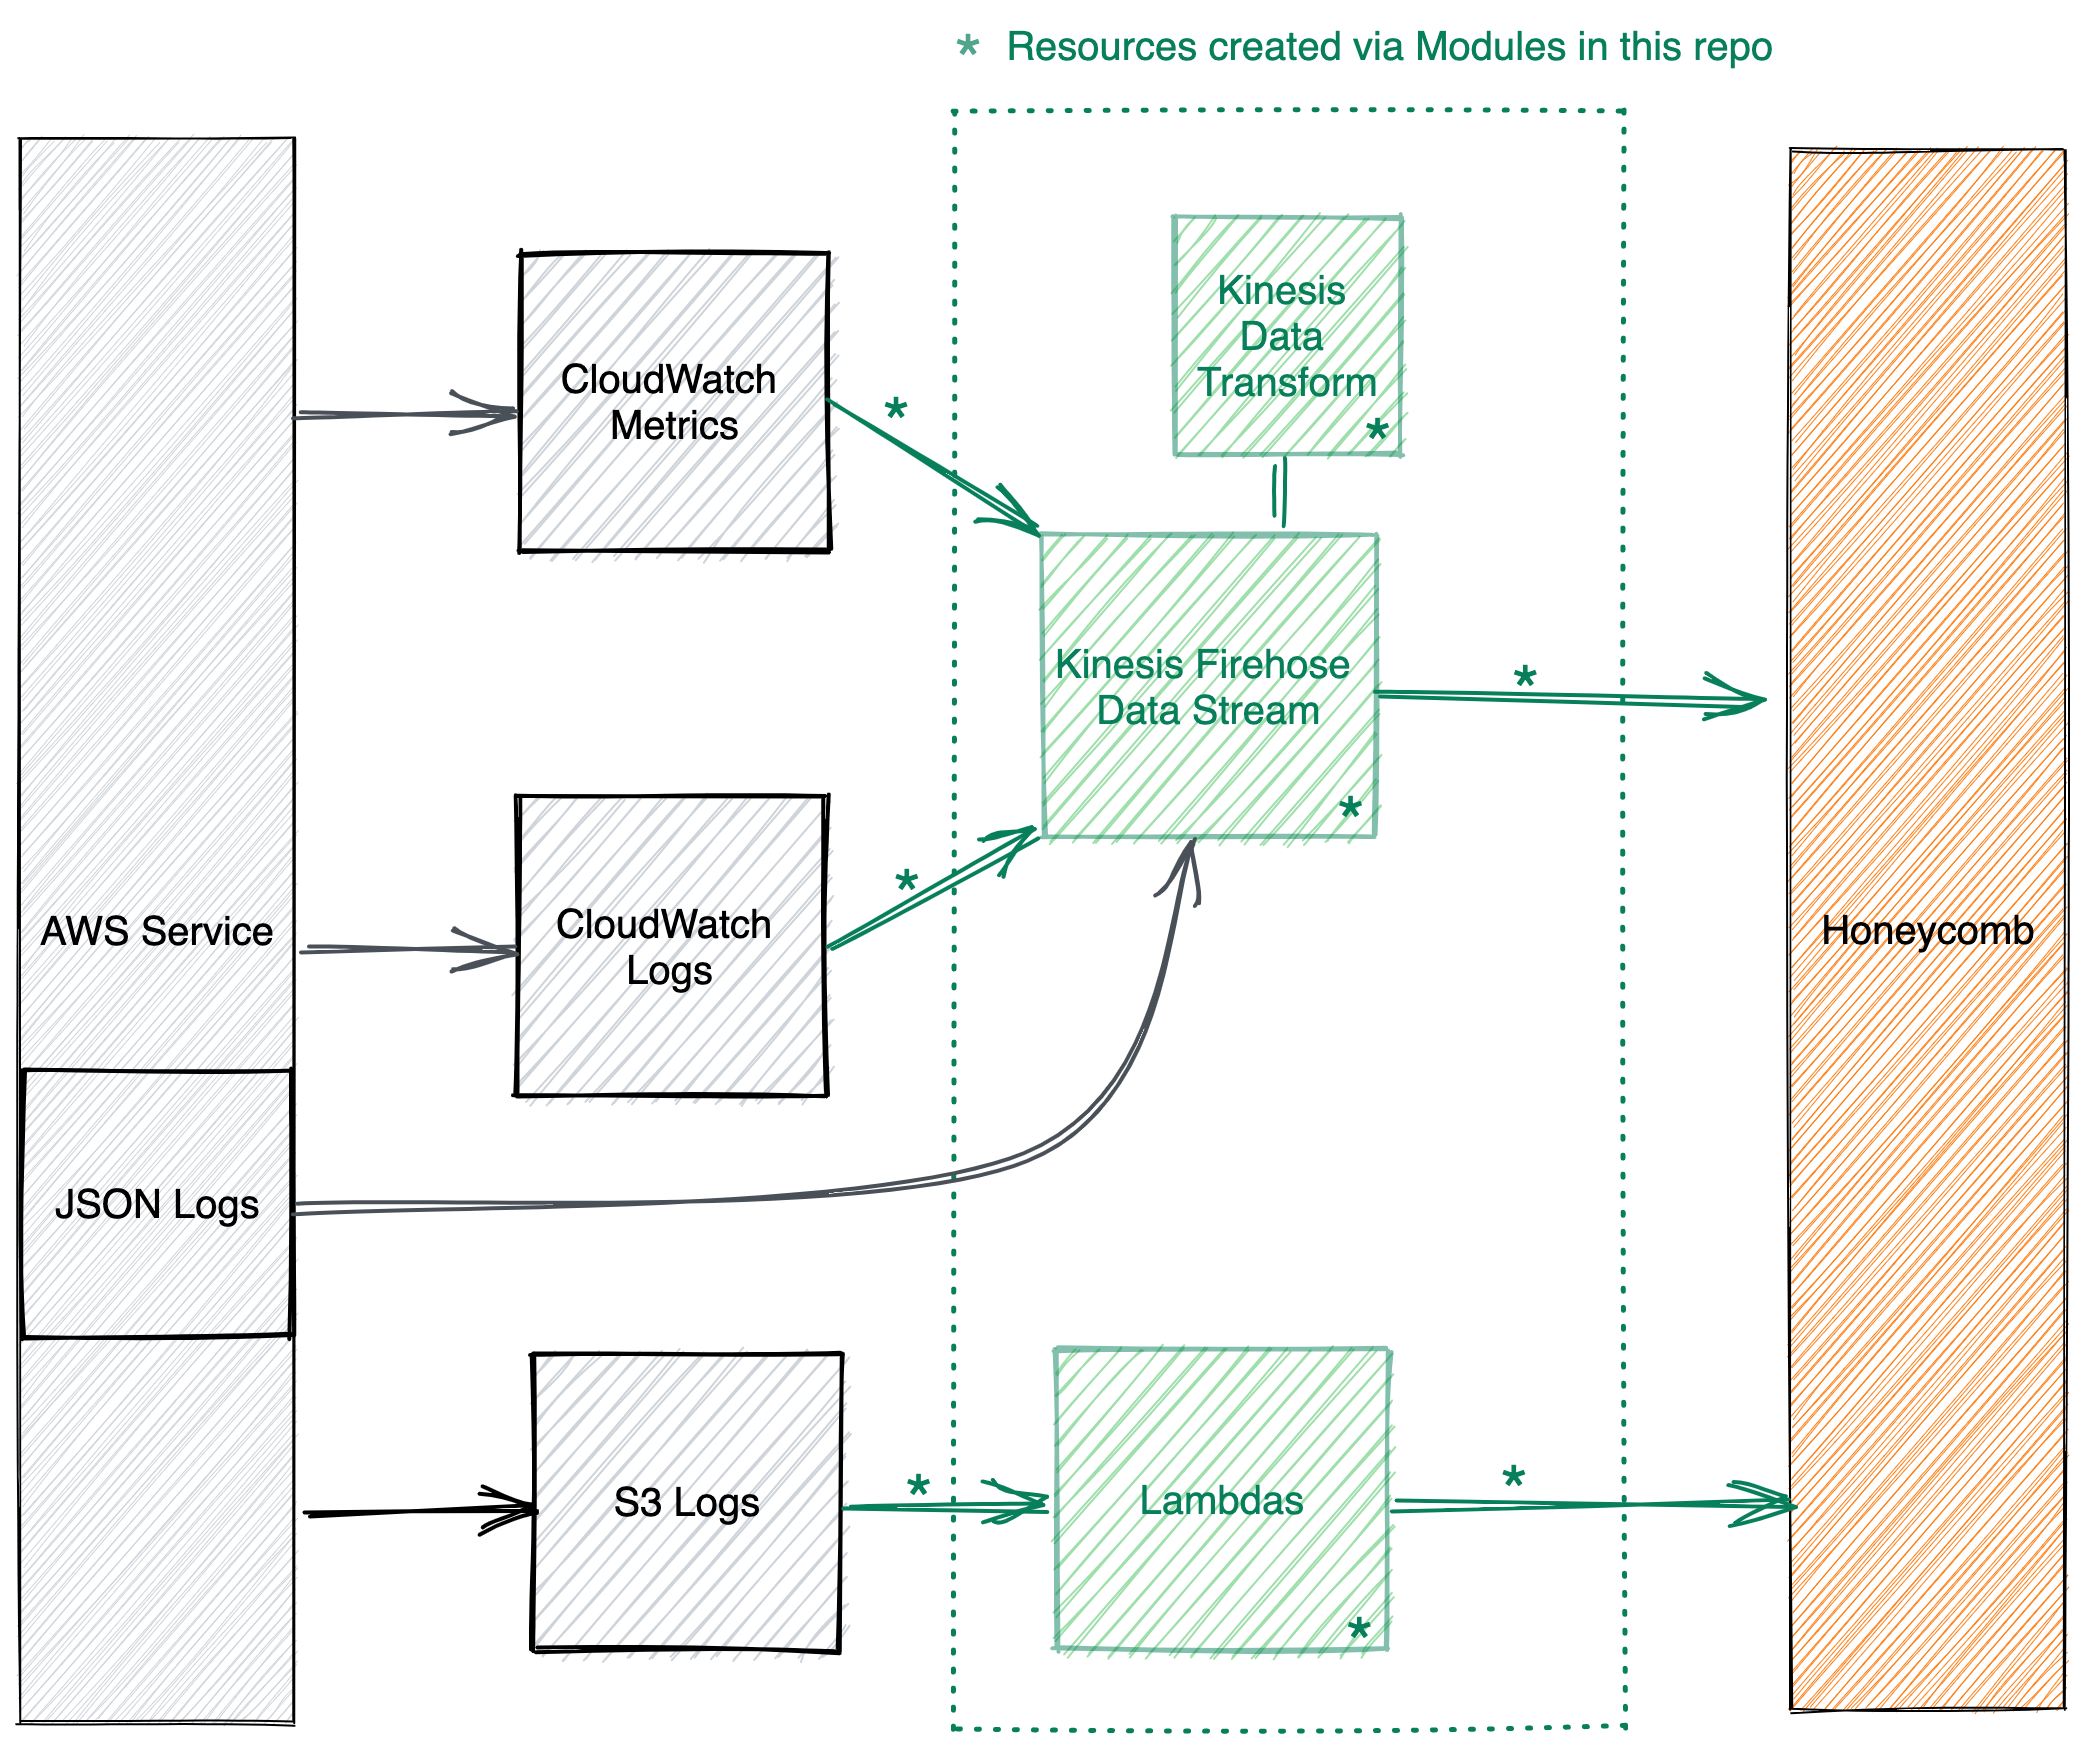
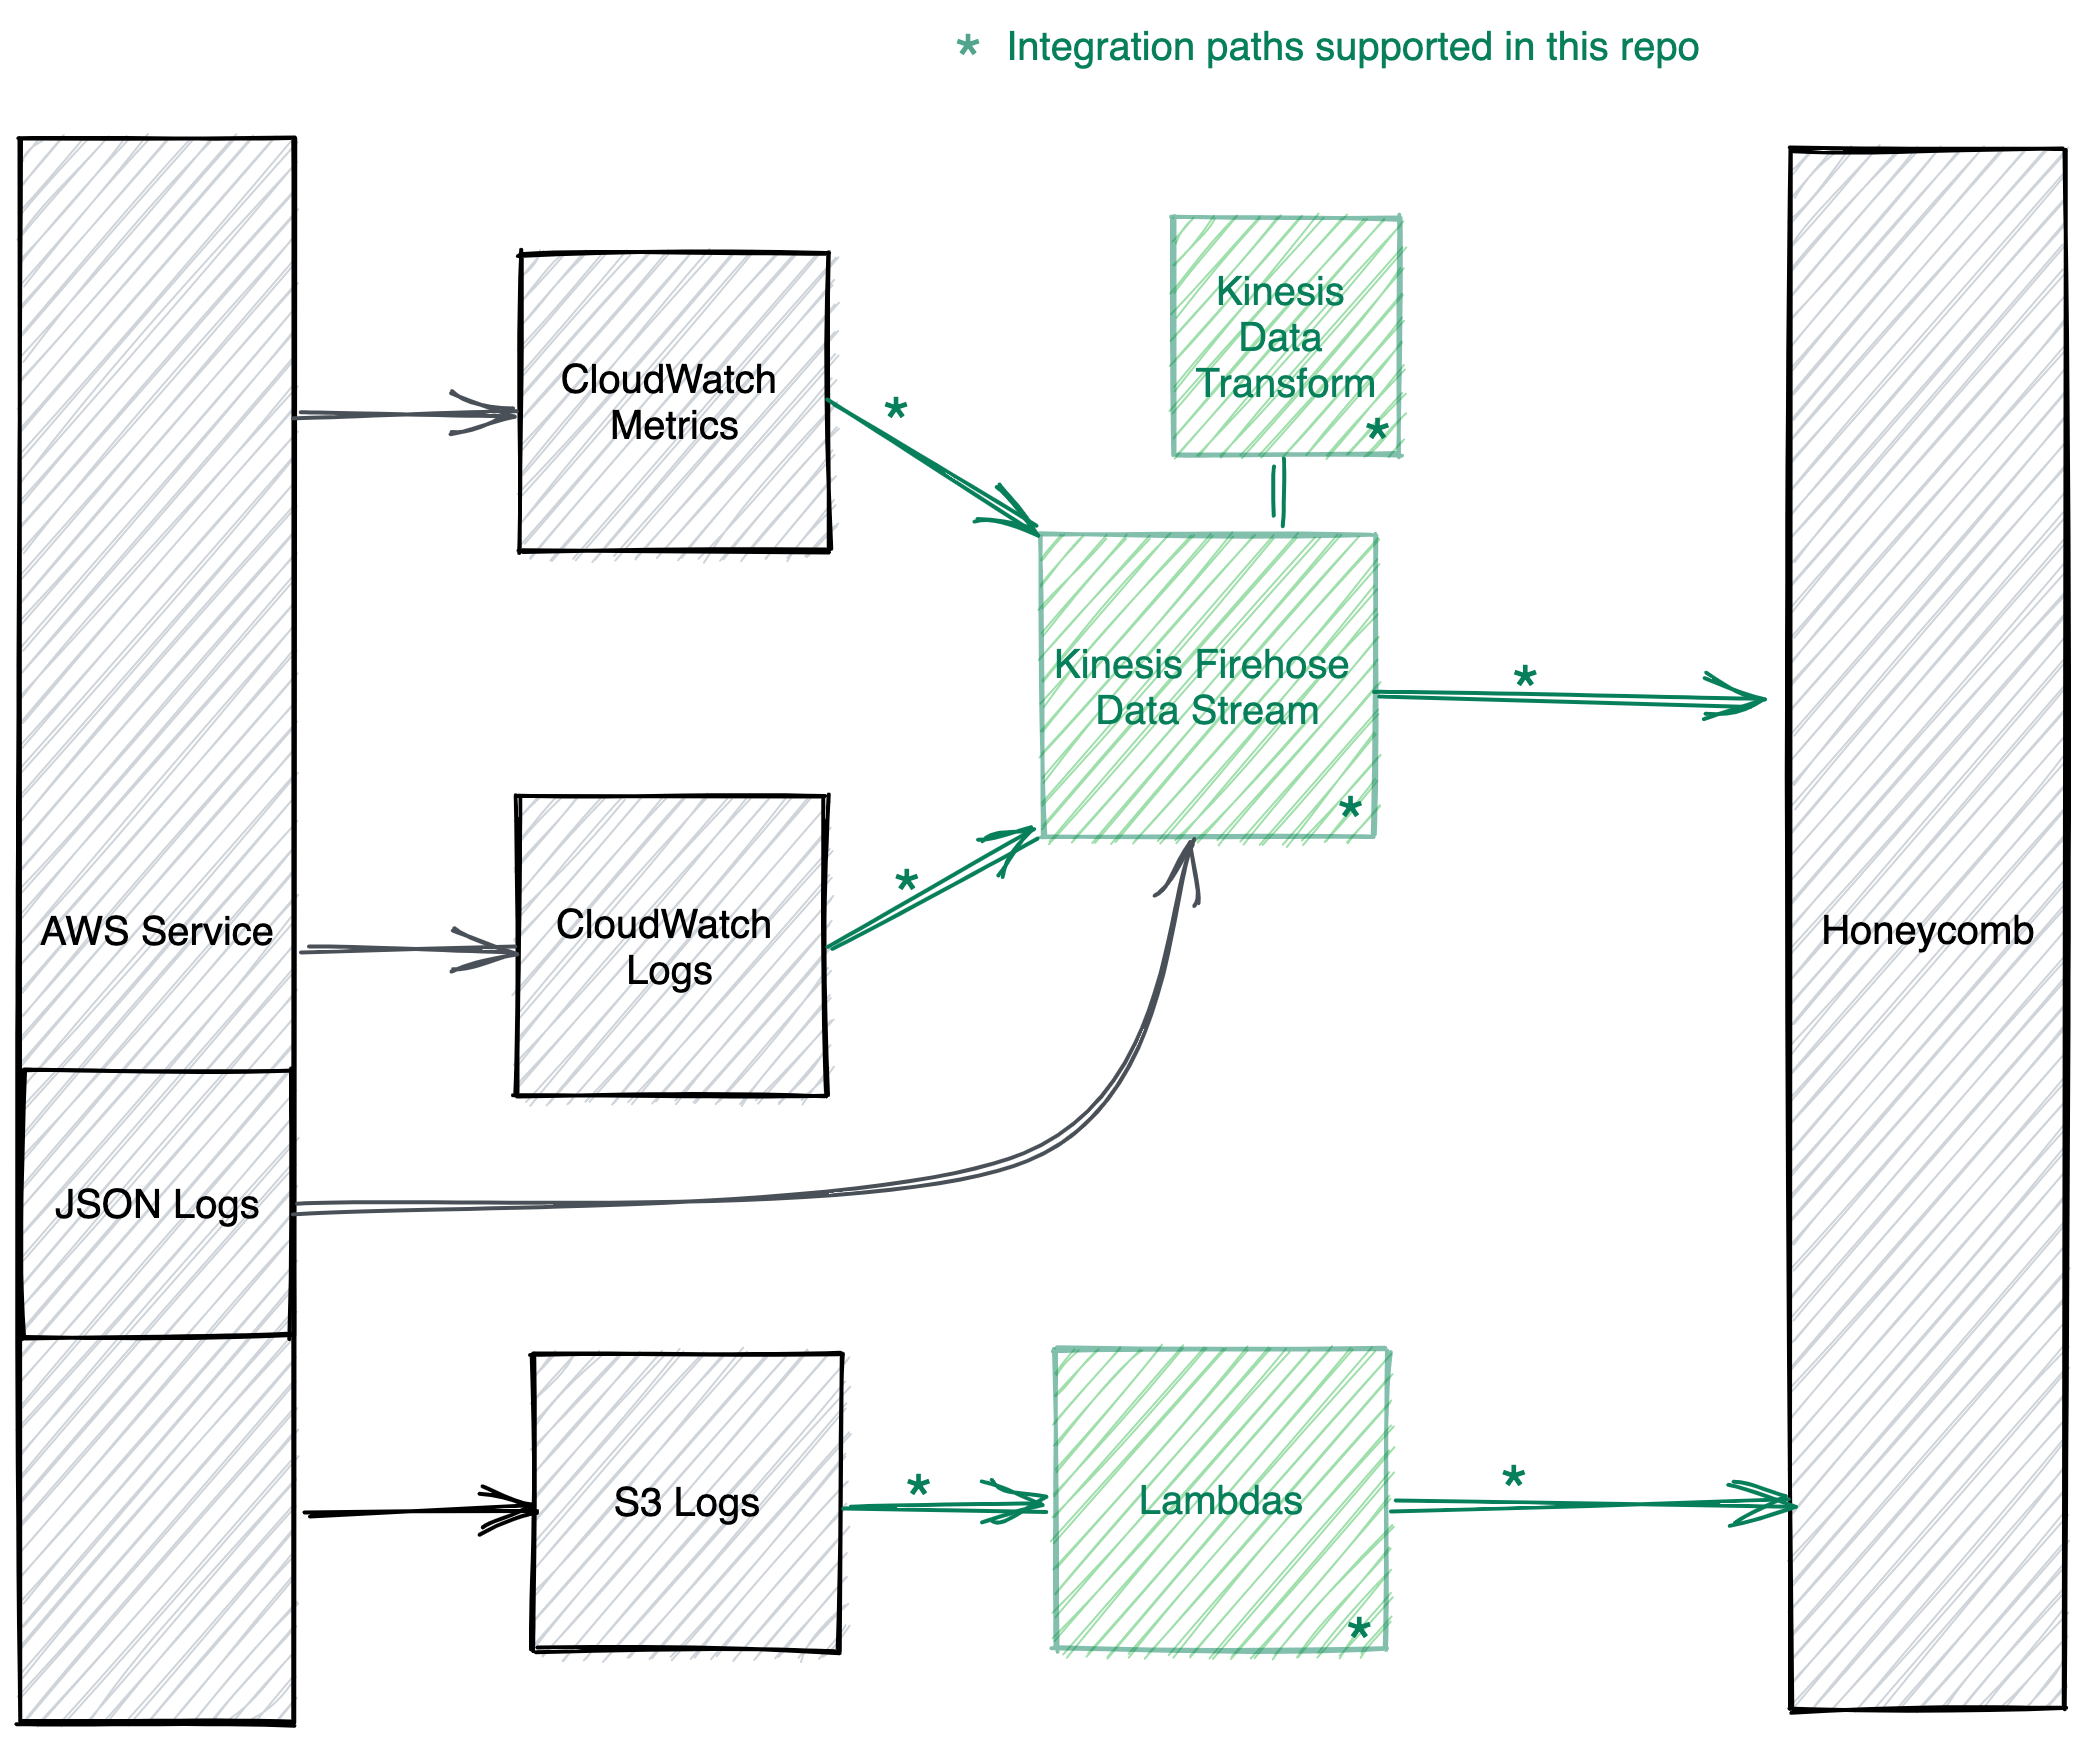
updates to diagram

diff --git a/README.md b/README.md
@@ -6,11 +6,12 @@ This repo contains a set of modules in the [modules folder](https://github.com/h
 quorum](https://www.consul.io/docs/internals/consensus.html), and a larger number of client nodes, which you typically
 in [AWS](https://aws.amazon.com/) using [Terraform](https://www.terraform.io/) to send observability data to [Honeycomb](https://www.honeycomb.io/).
 
+## How does this work?
 
 ![AWS Integrations architecture](docs/architecture.png?raw=true)
 
 
-**Current Integrations supported are:**
+**Integrations supported are:**
 
 * [Cloudwatch Logs](https://github.com/honeycombio/terraform-aws-integrations/tree/main/modules/cloudwatch-logs)
  
